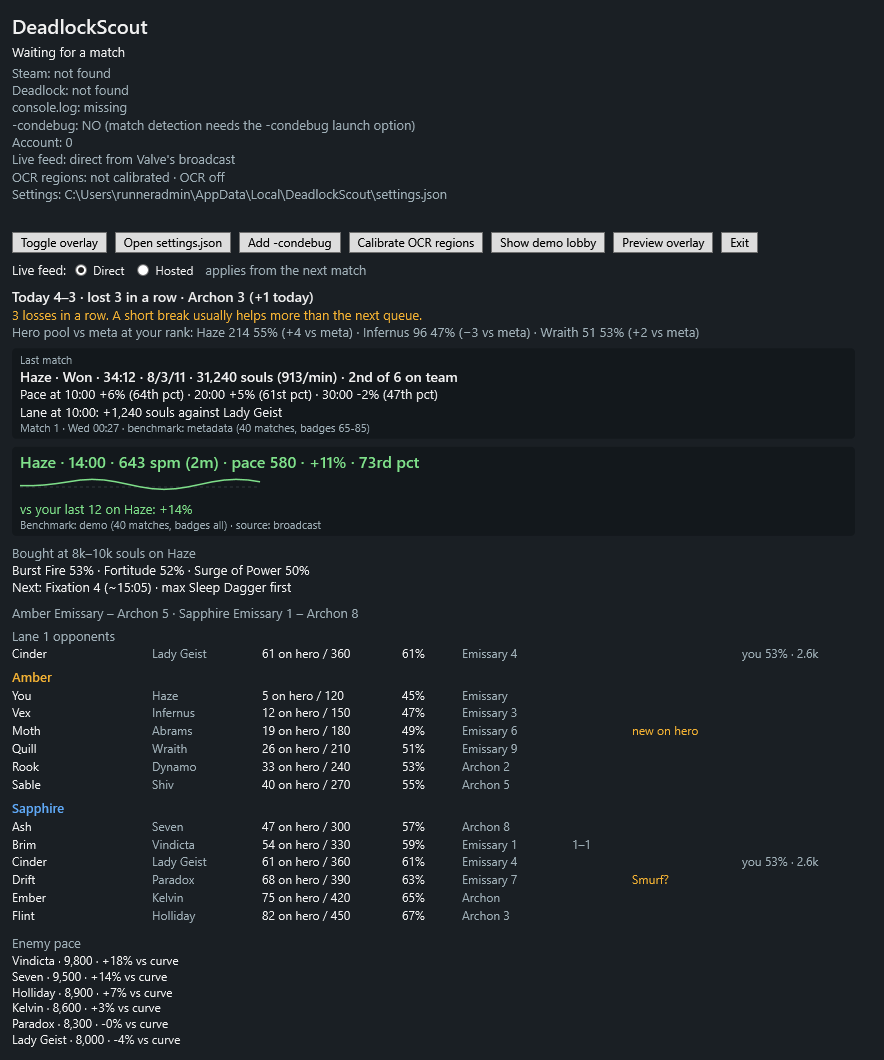
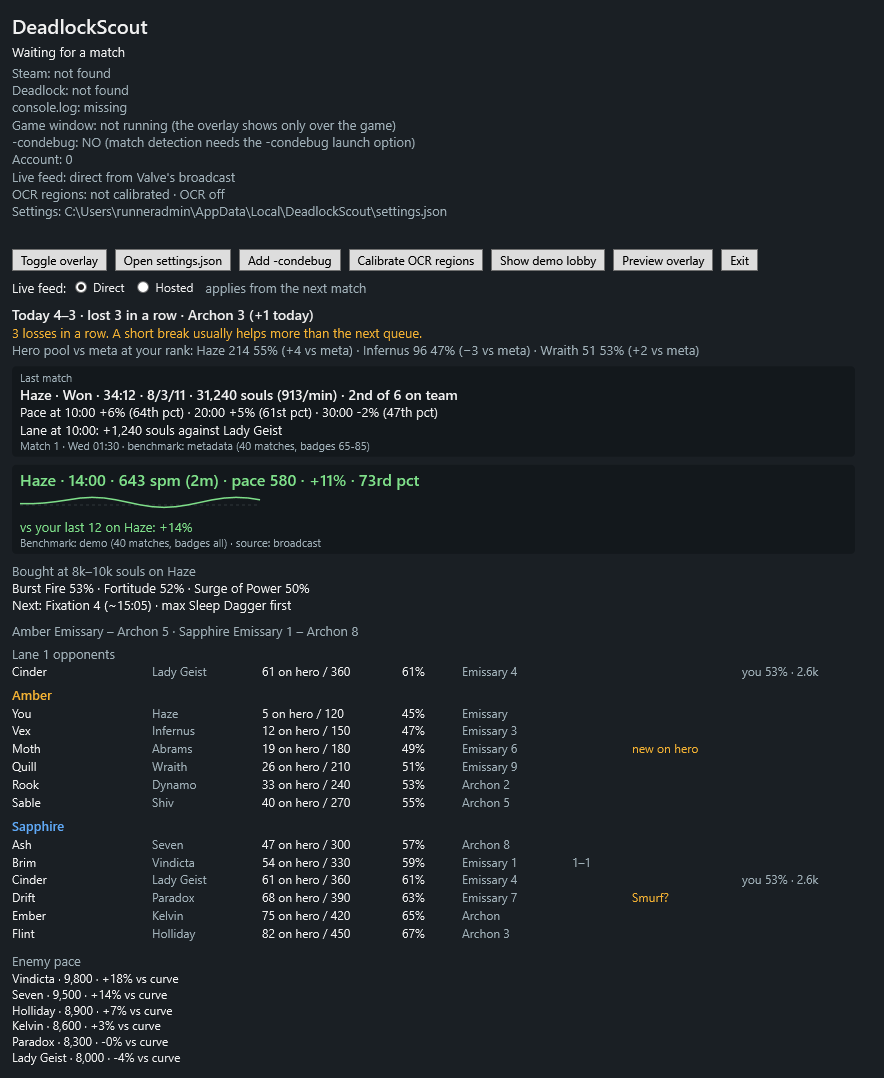
Show the overlay in a match: find the game as deadlock.exe (#21)
* Correct the 405 note: the relay answers 405 until the broadcast starts

The next real match got the same 405s over HTTPS for about a minute, then
the relay served the whole match. So 405 means "not started yet", not
"plain HTTP refused"; the patience in DirectBroadcastStream is what fixed
the feed. HTTPS stays (every verified read used it).

Claude-Session: https://claude.ai/code/session_01LSDkBn23Na5vMSKWLtGadZ

* Find the game as deadlock.exe so the overlay shows in a match

The overlay only shows while the game window is in front, and the tracker
looked for the process "project8", Deadlock's pre-2024 executable. The game
now runs as game\bin\win64\deadlock.exe (checked on the player's install),
so the overlay stayed hidden for a whole real match while the preview, which
skips that check, worked. OCR capture and the calibration tool use the same
tracker and were affected too.

- Look for "deadlock" first, then "project8".
- Fallback: a top-level window titled "Deadlock" whose program is in the
  game's bin folder, so another rename does not hide the overlay.
- The main window shows "Game window: found (deadlock.exe), in front" or
  "not running", to check without a match.

Claude-Session: https://claude.ai/code/session_01LSDkBn23Na5vMSKWLtGadZ

* Update app screenshots

---------

diff --git a/src/DeadlockScout.App/Interop/GameWindowTracker.cs b/src/DeadlockScout.App/Interop/GameWindowTracker.cs
@@ -1,12 +1,20 @@
 using System.Diagnostics;
+using System.IO;
 
 namespace DeadlockScout.App.Interop;
 
-/// <summary>Finds the Deadlock window (process project8, title "Deadlock") and reports its rectangle and whether it is in front.</summary>
+/// <summary>
+/// Finds the Deadlock window and reports its rectangle and whether it is in front. The game runs as
+/// <c>game\bin\win64\deadlock.exe</c> (<c>project8.exe</c> before 2024's rename); its window is titled "Deadlock".
+/// </summary>
 public sealed class GameWindowTracker
 {
-    public const string ProcessName = "project8";
+    /// <summary>Executable names, current first. The first real match showed the old "project8" alone never matched.</summary>
+    public static readonly string[] ProcessNames = { "deadlock", "project8" };
     public const string WindowTitle = "Deadlock";
+
+    /// <summary>The executable the window was found in ("deadlock.exe"), for the status line; null while not found.</summary>
+    public string? FoundIn { get; private set; }
 
     private IntPtr _hwnd;
     private DateTime _lastSearch = DateTime.MinValue;
@@ -45,16 +53,35 @@ public sealed class GameWindowTracker
         return new NativeMethods.RECT { Left = origin.X, Top = origin.Y, Right = origin.X + client.Width, Bottom = origin.Y + client.Height };
     }
 
-    private static IntPtr Find()
+    private IntPtr Find()
     {
+        FoundIn = null;
         try
         {
-            foreach (var p in Process.GetProcessesByName(ProcessName))
-            {
-                using (p)
+            foreach (var name in ProcessNames)
+                foreach (var p in Process.GetProcessesByName(name))
                 {
-                    if (p.MainWindowHandle != IntPtr.Zero && NativeMethods.WindowTitle(p.MainWindowHandle).Contains(WindowTitle, StringComparison.OrdinalIgnoreCase))
-                        return p.MainWindowHandle;
+                    using (p)
+                    {
+                        if (p.MainWindowHandle != IntPtr.Zero && NativeMethods.WindowTitle(p.MainWindowHandle).Contains(WindowTitle, StringComparison.OrdinalIgnoreCase))
+                        {
+                            FoundIn = name + ".exe";
+                            return p.MainWindowHandle;
+                        }
+                    }
+                }
+
+            // Another rename would not stop us: a top-level window titled exactly "Deadlock" whose program lives in the
+            // game's own bin folder.
+            var hwnd = NativeMethods.FindWindow(null, WindowTitle);
+            if (hwnd != IntPtr.Zero && NativeMethods.GetWindowThreadProcessId(hwnd, out uint pid) != 0)
+            {
+                using var p = Process.GetProcessById((int)pid);
+                var path = p.MainModule?.FileName ?? "";
+                if (path.Contains(@"\Deadlock\game\bin\", StringComparison.OrdinalIgnoreCase))
+                {
+                    FoundIn = Path.GetFileName(path);
+                    return hwnd;
                 }
             }
         }

diff --git a/src/DeadlockScout.App/MainWindow.xaml.cs b/src/DeadlockScout.App/MainWindow.xaml.cs
@@ -85,13 +85,19 @@ public partial class MainWindow : Window
         RefreshDetection();
     }
 
+    private string GameWindowStatus()
+    {
+        var game = _gameWindow.Poll();
+        return game.Found ? $"found ({_gameWindow.FoundIn}){(game.Foreground ? ", in front" : "")}" : "not running (the overlay shows only over the game)";
+    }
+
     public void RefreshDetection()
     {
         var steam = _paths.SteamPath ?? "not found";
         var game = _paths.DeadlockPath ?? "not found";
         var log = _paths.ConsoleLogPath;
         string condebug = _paths.HasCondebug ? "yes" : "NO (match detection needs the -condebug launch option)";
-        _state.Status.Detection = $"Steam: {steam}\nDeadlock: {game}\nconsole.log: {(log is not null && File.Exists(log) ? "present" : "missing")}\n-condebug: {condebug}\nAccount: {_paths.AccountId}\nLive feed: {_settings.CurrentValue.Api.LiveSource switch { DeadlockScout.Core.Settings.LiveSource.SelfHosted => "self-hosted at " + _settings.CurrentValue.Api.LiveUrl, DeadlockScout.Core.Settings.LiveSource.Direct => "direct from Valve's broadcast", _ => "hosted (api.deadlock-api.com)" }}\nOCR regions: {OcrRegionSummary()}\nSettings: {_settings.Path}";
+        _state.Status.Detection = $"Steam: {steam}\nDeadlock: {game}\nconsole.log: {(log is not null && File.Exists(log) ? "present" : "missing")}\nGame window: {GameWindowStatus()}\n-condebug: {condebug}\nAccount: {_paths.AccountId}\nLive feed: {_settings.CurrentValue.Api.LiveSource switch { DeadlockScout.Core.Settings.LiveSource.SelfHosted => "self-hosted at " + _settings.CurrentValue.Api.LiveUrl, DeadlockScout.Core.Settings.LiveSource.Direct => "direct from Valve's broadcast", _ => "hosted (api.deadlock-api.com)" }}\nOCR regions: {OcrRegionSummary()}\nSettings: {_settings.Path}";
         if (_settings.LastError is { } err) _state.Status.Warning = err;
     }
 

diff --git a/src/DeadlockScout.App/Interop/NativeMethods.cs b/src/DeadlockScout.App/Interop/NativeMethods.cs
@@ -28,6 +28,8 @@ public static partial class NativeMethods
     [LibraryImport("user32.dll", SetLastError = true)] [return: MarshalAs(UnmanagedType.Bool)] public static partial bool UnregisterHotKey(IntPtr hWnd, int id);
     [LibraryImport("user32.dll", SetLastError = true)] [return: MarshalAs(UnmanagedType.Bool)] public static partial bool IsWindow(IntPtr hWnd);
     [LibraryImport("user32.dll", SetLastError = true)] [return: MarshalAs(UnmanagedType.Bool)] public static partial bool IsIconic(IntPtr hWnd);
+    [LibraryImport("user32.dll", EntryPoint = "FindWindowW", StringMarshalling = StringMarshalling.Utf16)] public static partial IntPtr FindWindow(string? className, string? windowName);
+    [LibraryImport("user32.dll")] public static partial uint GetWindowThreadProcessId(IntPtr hWnd, out uint processId);
     [LibraryImport("user32.dll", StringMarshalling = StringMarshalling.Utf16, SetLastError = true)] public static partial int GetWindowTextW(IntPtr hWnd, Span<char> text, int maxCount);
 
     // ---- region capture (GDI) and window placement for the OCR calibration tool ----

diff --git a/src/DeadlockScout.Api/Live/DirectBroadcastStream.cs b/src/DeadlockScout.Api/Live/DirectBroadcastStream.cs
@@ -106,8 +106,8 @@ public sealed class DirectBroadcastStream : ILiveEventStream
     public Func<DateTimeOffset> Now { get; init; } = () => DateTimeOffset.UtcNow;
 
     /// <summary>
-    /// The relay over HTTPS. live/url hands out <c>http://</c>; on the first real match every plain-HTTP request to the
-    /// relay got 405 from the player's PC, while every verified read (and a live match checked since) used HTTPS.
+    /// The relay over HTTPS, the scheme every verified read used; live/url hands out <c>http://</c>. (A 405 from the
+    /// relay means the broadcast has not started yet, on either scheme; see <see cref="NotStartedPatience"/>.)
     /// </summary>
     public static string RelayUrl(string url)
         => url.StartsWith("http://", StringComparison.OrdinalIgnoreCase) ? "https://" + url["http://".Length..] : url;

diff --git a/docs/verification/api.md b/docs/verification/api.md
@@ -98,12 +98,14 @@ checked against a real match; see "Still open" at the end.
     `type: "ability"`. *Change:* `BuildHintService` caches both tables per hero, bracket and patch; the prefetch warms them.
 
 17. **Second real run (a full match, Oct 27, 2026).** Two more findings from the app's log:
-    - *The relay refused plain HTTP.* `live/url` returns `http://dist1-ord1.steamcontent.com/tv/{match_id}_{token}`,
-      and every `GET {url}/sync` from the player's PC answered 405, so the Direct feed got nothing. Over HTTPS the same
-      relay serves a live match (200), and a finished one answers 404. The Direct feed also gave up after six attempts
-      (about a minute), before the broadcast of a match still in hero loading could exist. *Change:*
-      `DirectBroadcastStream` reads the relay over HTTPS, keeps asking every 10 s for up to 6 minutes until the relay
-      first serves data, then throws `BroadcastUnavailableException` so the selector switches to the hosted feed.
+    - *The relay answers 405 until the broadcast starts.* Every `GET {url}/sync` answered 405, and the Direct feed
+      gave up after six attempts (about a minute), before the broadcast of a match still loading existed. *Change:*
+      `DirectBroadcastStream` keeps asking every 10 s for up to 6 minutes until the relay first serves data, then throws
+      `BroadcastUnavailableException` so the selector switches to the hosted feed. It also reads the relay over HTTPS
+      (live/url hands out `http://`), the scheme every verified read used. *Confirmed on the next match (Oct 27,
+      2026):* over HTTPS the relay again answered 405 six times, from the lobby line until about 25 s after the game
+      started, then served the whole 42-minute match with no drop; the roster and scouting followed at once. A finished
+      match's relay answers 404.
     - *The report spent the Steam fallback.* Asking `/v1/matches/{id}/metadata` for a match the API has not processed
       yet goes to Steam, 3 requests an hour per IP; the report's 1/2/4/8-minute schedule hit 429 by the fourth try.
       The bulk endpoint filtered by id (`/v1/matches/metadata?match_ids={id}&limit=1`) answers 404 "No matches found"
@@ -181,5 +183,8 @@ the fixes. The selector still falls back to the hosted feed if a future patch br
 - [ ] Whether the hosted `live.deadlock-api.com` service exposes the same event payloads; if so, add a WebSocket
       `ILiveEventStream`.
 - [ ] `time_stamp_s` cadence in `stats[]` (assumed roughly per minute; `CurveBuilder` interpolates so any cadence works).
-- [ ] Deadlock's process name and window title for `GameWindowTracker` (`project8.exe` / "Deadlock" assumed).
+- [x] Deadlock's process name for `GameWindowTracker`: `game\bin\win64\deadlock.exe` (checked on the player's install,
+      Oct 27, 2026). The assumed `project8.exe` is the pre-2024 name; looking only for it kept the overlay hidden for a
+      whole real match while the preview worked. The tracker now takes either name, falls back to a window titled
+      "Deadlock" whose program is in the game's `bin` folder, and the main window shows whether it found the game.
 - [ ] A free source for party ids (the Stack flag).

diff --git a/docs/architecture-seed.md b/docs/architecture-seed.md
@@ -234,7 +234,7 @@ The overlay is an ordinary top-level WPF window drawn over the game, never insid
 
 - `OverlayWindow`: `WindowStyle=None`, `AllowsTransparency=True`, `Background=Transparent`, `Topmost=True`, `ShowInTaskbar=False`, `ShowActivated=False`.
 - After `SourceInitialized`, set `WS_EX_LAYERED | WS_EX_TRANSPARENT | WS_EX_TOOLWINDOW | WS_EX_NOACTIVATE` via `SetWindowLong` so clicks pass through and it never steals focus.
-- `GameWindowTracker` finds the Deadlock window by process (`project8.exe`, window title "Deadlock"), polls `GetWindowRect` and `GetForegroundWindow` every 500 ms, and hides the overlay when the game is not foreground.
+- `GameWindowTracker` finds the Deadlock window by process (`deadlock.exe`, formerly `project8.exe`; window title "Deadlock"), polls `GetWindowRect` and `GetForegroundWindow` every 500 ms, and hides the overlay when the game is not foreground.
 - Optional: `SetWindowDisplayAffinity(WDA_EXCLUDEFROMCAPTURE)` so the overlay stays out of your own clips and streams.
 - `RegisterHotKey` toggles the overlay (default `Ctrl+Shift+O`) and cycles layouts (`Ctrl+Shift+L`).
 
